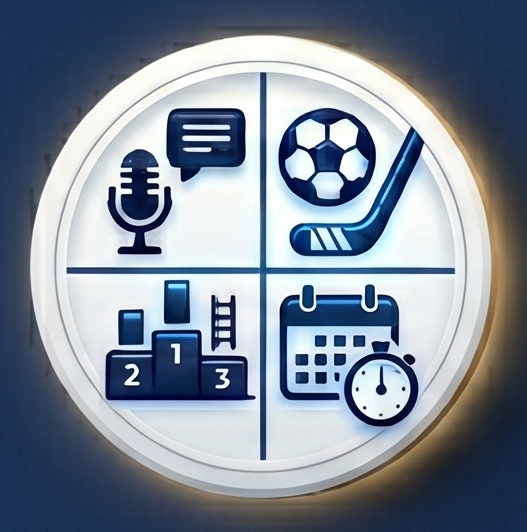
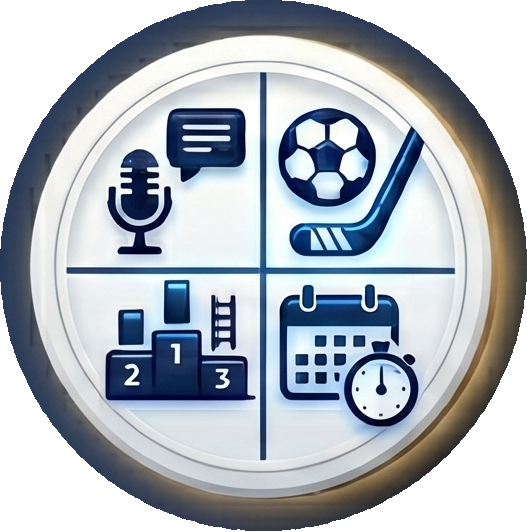
v4.51 - menu ikony: transparentne rohy, vacsie (28/32px)

Changed region(s): [[0.0, 0.5414, 1.0, 1.0], [0.5465, 0.0, 1.0, 0.4511], [0.0, 0.0, 0.425, 0.4511]]

diff --git a/web/src/pages/user/UserLayout.jsx b/web/src/pages/user/UserLayout.jsx
@@ -38,22 +38,22 @@ export default function UserLayout() {
                 </div>
                 <nav>
                     <NavLink to="/dashboard" className={({ isActive }) => isActive ? styles.active : ''}>
-                        <img src="/menu_prehlad.png" alt="" style={{width:20,height:20,objectFit:'contain',verticalAlign:'middle',marginRight:6}} />Prehľad
+                        <img src="/menu_prehlad.png" alt="" style={{width:28,height:28,objectFit:'contain',verticalAlign:'middle',marginRight:6}} />Prehľad
                     </NavLink>
                     <NavLink to="/games"     className={({ isActive }) => isActive ? styles.active : ''}>
-                        <img src="/menu_zapasy.png" alt="" style={{width:20,height:20,objectFit:'contain',verticalAlign:'middle',marginRight:6}} />Zápasy
+                        <img src="/menu_zapasy.png" alt="" style={{width:28,height:28,objectFit:'contain',verticalAlign:'middle',marginRight:6}} />Zápasy
                     </NavLink>
                     <NavLink to="/tabulky"   className={({ isActive }) => isActive ? styles.active : ''}>
-                        <img src="/menu_tabulky.png" alt="" style={{width:20,height:20,objectFit:'contain',verticalAlign:'middle',marginRight:6}} />Tabuľky
+                        <img src="/menu_tabulky.png" alt="" style={{width:28,height:28,objectFit:'contain',verticalAlign:'middle',marginRight:6}} />Tabuľky
                     </NavLink>
                     <NavLink to="/standings" className={({ isActive }) => isActive ? styles.active : ''}>
-                        <img src="/menu_skupiny.png" alt="" style={{width:20,height:20,objectFit:'contain',verticalAlign:'middle',marginRight:6}} />Skupiny
+                        <img src="/menu_skupiny.png" alt="" style={{width:28,height:28,objectFit:'contain',verticalAlign:'middle',marginRight:6}} />Skupiny
                     </NavLink>
                     <NavLink to="/profile"   className={({ isActive }) => isActive ? styles.active : ''}>
-                        <img src="/menu_profil.png" alt="" style={{width:20,height:20,objectFit:'contain',verticalAlign:'middle',marginRight:6}} />Profil
+                        <img src="/menu_profil.png" alt="" style={{width:28,height:28,objectFit:'contain',verticalAlign:'middle',marginRight:6}} />Profil
                     </NavLink>
                     <NavLink to="/pravidla"  className={({ isActive }) => isActive ? styles.active : ''}>
-                        <img src="/menu_pravidla.png" alt="" style={{width:20,height:20,objectFit:'contain',verticalAlign:'middle',marginRight:6}} />Pravidlá
+                        <img src="/menu_pravidla.png" alt="" style={{width:28,height:28,objectFit:'contain',verticalAlign:'middle',marginRight:6}} />Pravidlá
                     </NavLink>
                 </nav>
                 {profile && (
@@ -71,28 +71,28 @@ export default function UserLayout() {
             </main>
             <nav className={styles.bottomNav}>
                 <NavLink to="/dashboard" className={({ isActive }) => isActive ? styles.active : ''}>
-                    <img src="/menu_prehlad.png" alt="" style={{width:24,height:24,objectFit:'contain'}} />
+                    <img src="/menu_prehlad.png" alt="" style={{width:32,height:32,objectFit:'contain'}} />
                     <span style={{fontSize:'0.65rem',marginTop:2}}>Prehľad</span>
                 </NavLink>
                 <NavLink to="/games"     className={({ isActive }) => isActive ? styles.active : ''}>
-                    <img src="/menu_zapasy.png" alt="" style={{width:24,height:24,objectFit:'contain'}} />
+                    <img src="/menu_zapasy.png" alt="" style={{width:32,height:32,objectFit:'contain'}} />
                     <span style={{fontSize:'0.65rem',marginTop:2}}>Zápasy</span>
                 </NavLink>
                 <NavLink to="/profile" className={({ isActive }) => [styles.profileNav, isActive ? styles.active : ''].join(' ')}>
                     <div className={styles.profileNavAvatar}>
                         {profile?.avatar
                             ? <img src={profile.avatar} alt="" className={styles.profileNavImg} />
-                            : <img src="/menu_profil.png" alt="" style={{width:24,height:24,objectFit:'contain'}} />
+                            : <img src="/menu_profil.png" alt="" style={{width:32,height:32,objectFit:'contain'}} />
                         }
                     </div>
                     <span style={{fontSize:'0.65rem',marginTop:2}}>Profil</span>
                 </NavLink>
                 <NavLink to="/standings" className={({ isActive }) => isActive ? styles.active : ''}>
-                    <img src="/menu_skupiny.png" alt="" style={{width:24,height:24,objectFit:'contain'}} />
+                    <img src="/menu_skupiny.png" alt="" style={{width:32,height:32,objectFit:'contain'}} />
                     <span style={{fontSize:'0.65rem',marginTop:2}}>Skupiny</span>
                 </NavLink>
                 <NavLink to="/pravidla"  className={({ isActive }) => isActive ? styles.active : ''}>
-                    <img src="/menu_pravidla.png" alt="" style={{width:24,height:24,objectFit:'contain'}} />
+                    <img src="/menu_pravidla.png" alt="" style={{width:32,height:32,objectFit:'contain'}} />
                     <span style={{fontSize:'0.65rem',marginTop:2}}>Pravidlá</span>
                 </NavLink>
             </nav>
